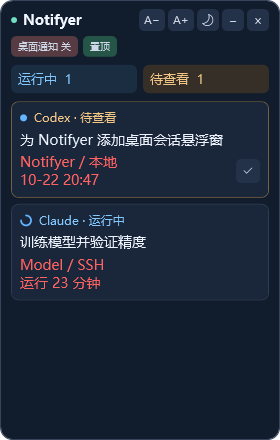
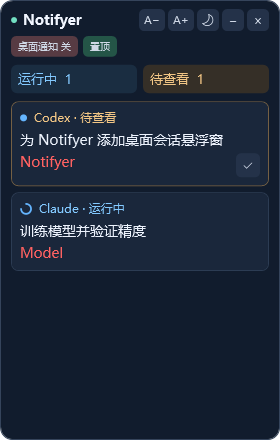
Release Notifyer 0.4.12 showing only project names on cards

diff --git a/README.md b/README.md
@@ -23,7 +23,7 @@ What really consumes time is often not coding itself, but repeatedly switching b
 | Notification delivery | Desktop, VS Code, or both; optional unfocused-window-only delivery and VS Code fallback when desktop delivery fails. |
 | Windows floating window | One shared view of running and unread conversations across VS Code windows in the same profile. Click Notifyer in the bottom-right VS Code status bar to show/hide it. |
 | Review workflow | Click a card to return to a matching window; mark a result reviewed to remove it. Review state survives restarts. |
-| Appearance and controls | Sun/moon theme icons, night by default; red project/runtime text matches the title size. Desktop notifications default off; resizing, pinning, dragging, collapse and hide persist. |
+| Appearance and controls | Sun/moon theme icons, night by default; red project name matches the title size. Desktop notifications default off; resizing, pinning, dragging, collapse and hide persist. |
 | Local and remote projects | Local UI monitoring with accessible WSL, Remote SSH and container sessions. The floating window appears on the local Windows desktop. |
 | Reliability and diagnostics | Silent historical baseline, completion deduplication across windows, helper recovery, test notification and diagnostic commands. |
 
@@ -68,11 +68,11 @@ When you click a desktop notification, Notifyer targets the exact VS Code window
 
 ### 3. Windows floating session window
 
-Use **A− / A+** in the header to decrease/increase text size immediately, one step per click (10–24 DIP). The default conversation text is now 14 DIP, up from 12; title text, red project/runtime details, status text and counts adjust together. The selected size is saved across reopening and restarting. These controls are separate from the collapse button.
+Use **A− / A+** in the header to decrease/increase text size immediately, one step per click (10–24 DIP). The default conversation text is now 14 DIP, up from 12; title text, red project names, status text and counts adjust together. The selected size is saved across reopening and restarting. These controls are separate from the collapse button.
 
 Running status requires activity observed after startup. A historical scan reconciles the final state silently; it does not turn old unfinished logs into active work. Claude API errors, interruption markers and truncated/terminal response stop reasons hide the running card until real activity resumes. When no explicit stop is logged, the quiet timeout remains a fallback; the 500-minute limit also remains in place. Prompt wording such as “resume after a cut-off” alone is not evidence that a task has stopped.
 
-The default size is 280 × 440 DIP (approximately 420 × 660 pixels at 150% display scaling), with night colors. Project names and runtime use the same font size as the conversation title, in red. Drag the header to move the panel and drag any edge or corner to resize it. Size, position and explicit theme choices save automatically and return when reopening the panel or restarting VS Code, including on a secondary monitor. Collapsing preserves the expanded size. If a display is disconnected or the header is no longer reachable, the panel returns to the nearest available display.
+The default size is 280 × 440 DIP (approximately 420 × 660 pixels at 150% display scaling), with night colors. Only the project name appears in red below the conversation title, at the same font size; SSH host details, runtime and timestamps are hidden. Drag the header to move the panel and drag any edge or corner to resize it. Size, position and explicit theme choices save automatically and return when reopening the panel or restarting VS Code, including on a secondary monitor. Collapsing preserves the expanded size. If a display is disconnected or the header is no longer reachable, the panel returns to the nearest available display.
 
 ![Default night colors with sample data](image/floating-panel-night-preview.png)
 
@@ -82,7 +82,7 @@ Day colors (sample data):
 
 On Windows, one shared, draggable desktop window opens automatically; no extra desktop runtime is required. Install and enable this version of Notifyer in each VS Code window using the same VS Code profile. Remote SSH, WSL and container windows report sessions accessible to the local UI extension. The panel refreshes approximately every two seconds and shows each conversation's latest turn:
 
-- **Running** with a continuously rotating indicator and elapsed time. Turns exceeding 500 minutes are hidden and excluded from the running count.
+- **Running** with a continuously rotating indicator. Turns exceeding 500 minutes are hidden and excluded from the running count.
 - **Completed / error, awaiting review** with a blue dot for results observed after the initial scan. Returning to a window never clears this state. Click the **✓** button (mark reviewed); acknowledgements synchronize across windows and survive restarts.
 
 The default window fits approximately three compact cards; resize it freely and scroll for additional conversations. Titles use one line with an ellipsis; hover to read the stored excerpt. Persistent connection/focus explanations and the redundant SSH environment label are omitted. Only running and unread conversations appear. The 500-minute cutoff applies to the current turn's running time; its later completion can still appear for review, and a new turn is timed separately. Marking a result reviewed immediately removes its card; baseline history is hidden. Disconnected, aborted or quiet conversations are kept as unconfirmed internally and excluded from the running list. Long tools and approval waits can be quiet too; this does not indicate failure.
@@ -114,6 +114,11 @@ Starting with 0.3.0, quota display has moved to the independent **Agent Center**
 Agent Center: [marketplace.visualstudio.com/items?itemName=pengsen.codex-claude-agent-status](https://marketplace.visualstudio.com/items?itemName=pengsen.codex-claude-agent-status)
 
 # Changelog
+
+## October 22, 2026 (0.4.12)
+
+1. Show only the project name below each conversation, hiding remote suffixes, runtime and timestamps.
+
 
 ## October 22, 2026 (0.4.11)
 

diff --git a/CHANGELOG.md b/CHANGELOG.md
@@ -4,6 +4,15 @@ All notable changes to Notifyer are documented in this file.
 
 Notifyer 的重要变更都会记录在此文件中。
 
+## 0.4.12 - 2026-10-22
+
+### Changed / 调整
+
+- The red detail line now shows only the project name, removing SSH/remote suffixes, runtime and completion timestamps while retaining the chosen font and color.
+- 红色详情仅显示项目名，删除 SSH／远程后缀、运行时长和完成时间，保留已选择的字号和颜色。
+- Session timing remains available internally for running-state and timeout filtering.
+- 会话时间仍在内部用于运行状态及超时过滤。
+
 ## 0.4.11 - 2026-10-22
 
 ### Added / 新增
